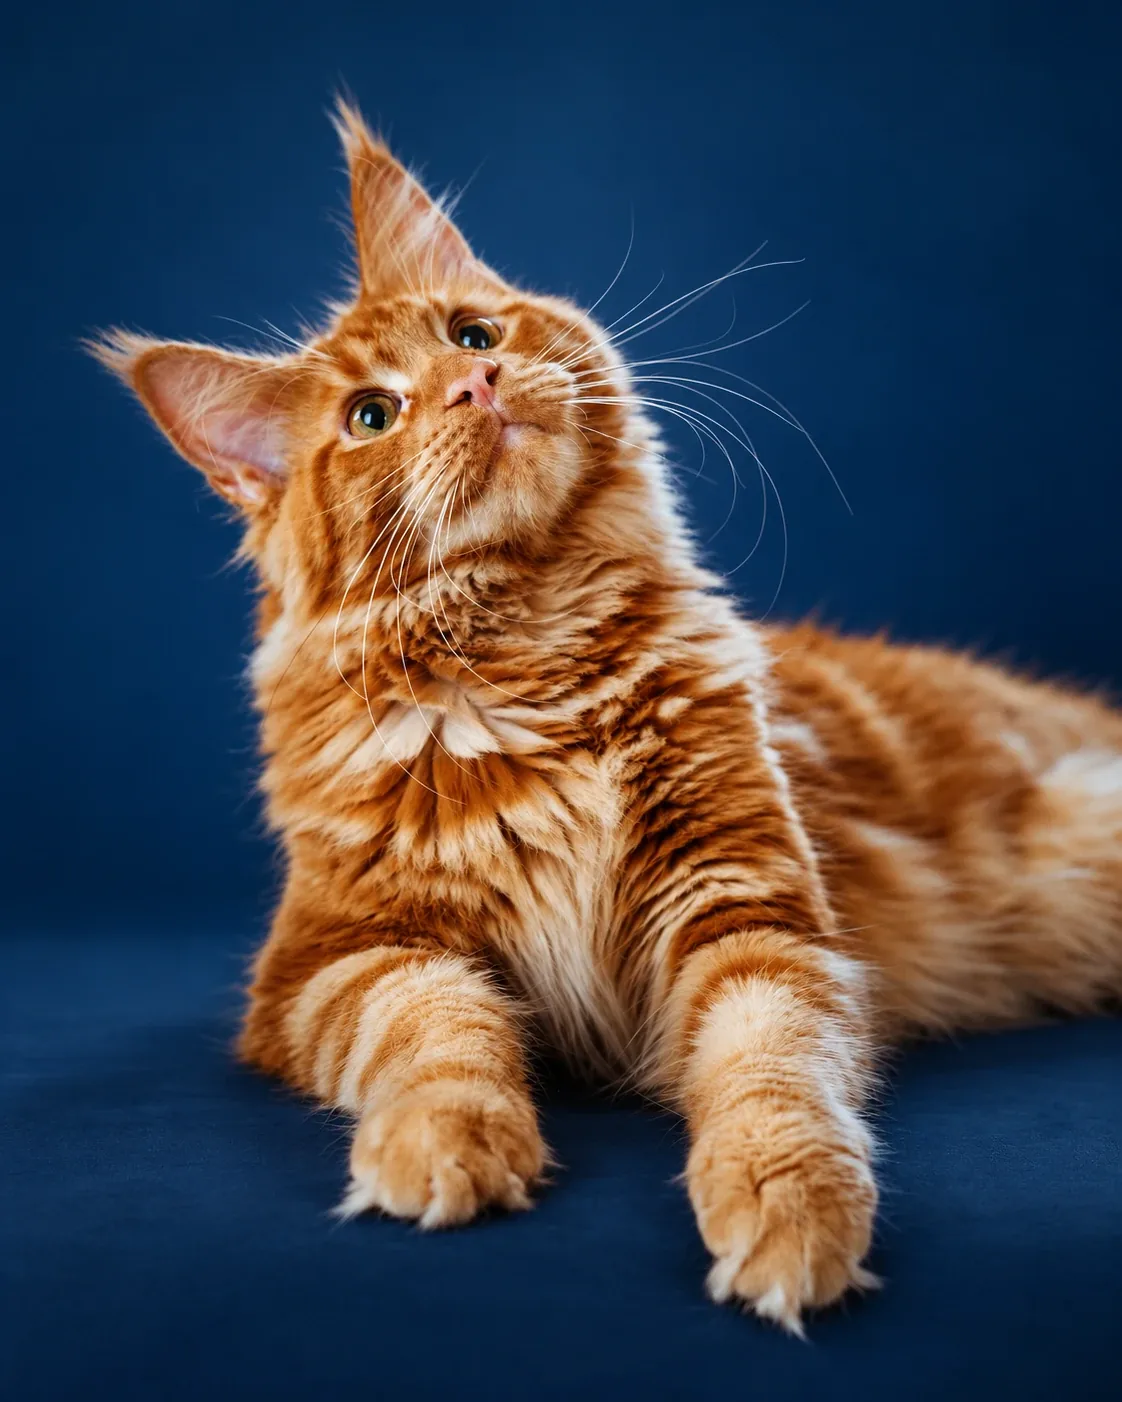
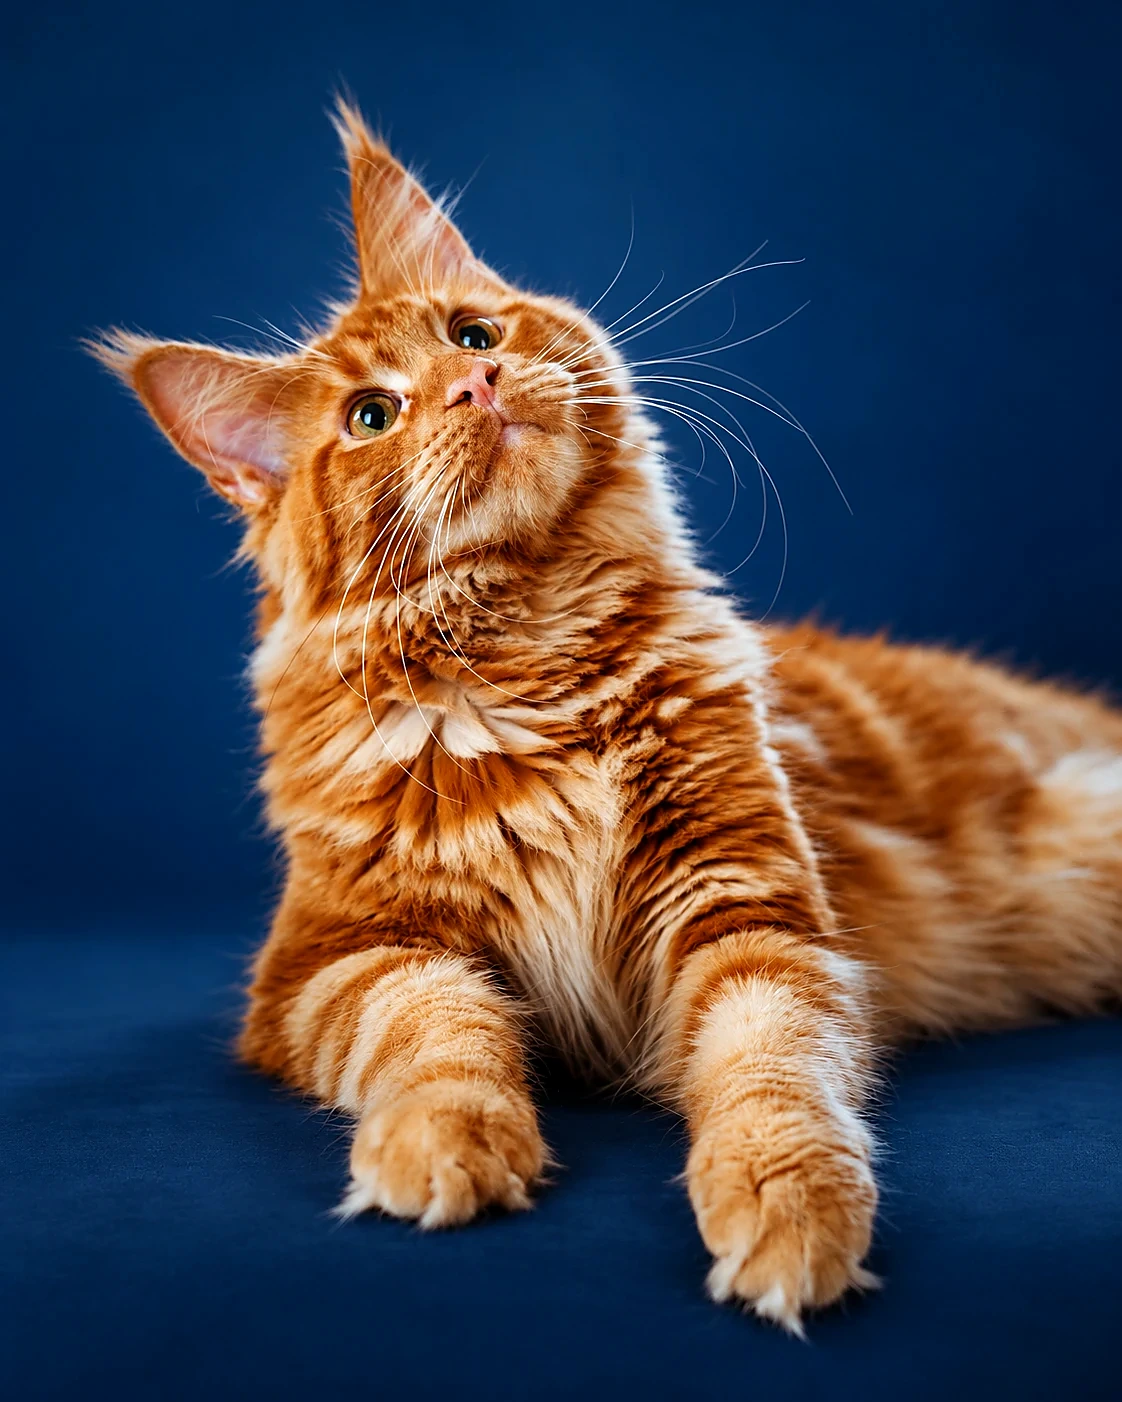
Первый экран: фото растворяется в градиентном фоне, улучшенное фото
- градиент фона в тон снимку, края фото плавно уходят в фон
- на компьютере фото на 15% крупнее
- чёткость, контраст и цвет фото, качество 90

diff --git a/src/styles/sections.css b/src/styles/sections.css
@@ -308,3 +308,25 @@ main:focus { outline: none; }
   .chips::-webkit-scrollbar { display: none; }
   .chip { flex-shrink: 0; }
 }
+
+/* ——— Вариант первого экрана: фото растворяется в фоне ——— */
+.hero--blend { background: radial-gradient(ellipse 45% 70% at 74% 52%, #05305a 0%, #022c52 55%, transparent 100%), linear-gradient(100deg, #002f55 0%, #002b50 100%); }
+.hero--blend .hero__media { position: relative; }
+.hero--blend .hero__media img {
+  border-radius: 0;
+  -webkit-mask-image: radial-gradient(ellipse 50% 52% at 47% 50%, #000 52%, transparent 97%);
+  mask-image: radial-gradient(ellipse 50% 52% at 47% 50%, #000 52%, transparent 97%);
+}
+.hero--blend .hero__media figcaption {
+  justify-content: center; margin-top: -8px; padding: 0; background: none; color: var(--lime); border-radius: 0; font-size: 0.875rem;
+}
+@media (min-width: 768px) {
+  .hero--blend .hero__media { margin-block: -24px; }
+}
+@media (min-width: 1024px) {
+  .hero--blend .hero__media { margin-right: calc(var(--gutter) * -1); }
+}
+@media (min-width: 1024px) {
+  /* Фото на 15% крупнее: колонка 0.85fr → 1.08fr при той же ширине контейнера */
+  .hero--blend .hero__grid { grid-template-columns: minmax(0, 1.35fr) minmax(0, 1.08fr); }
+}

diff --git a/src/app/page.tsx b/src/app/page.tsx
@@ -46,7 +46,7 @@ export default function HomePage() {
   return (
     <>
       {/* Первый экран */}
-      <section className="hero" aria-labelledby="hero-title">
+      <section className="hero hero--blend" aria-labelledby="hero-title">
         <div className="container hero__grid">
           <div className="hero__text">
             <p className="eyebrow">{site.tagline}</p>
@@ -74,7 +74,7 @@ export default function HomePage() {
             </p>
           </div>
           <figure className="hero__media">
-            <Image src={photos.heroCat.src} alt={photos.heroCat.alt} width={photos.heroCat.width} height={photos.heroCat.height} priority sizes="(min-width: 1024px) 460px, 100vw" />
+            <Image src={photos.heroCat.src} alt={photos.heroCat.alt} width={photos.heroCat.width} height={photos.heroCat.height} quality={90} priority sizes="(min-width: 1024px) 460px, 100vw" />
             <figcaption>
               <Icon name="clock" size={18} /> {site.hours.label}, без выходных
             </figcaption>

diff --git a/next.config.ts b/next.config.ts
@@ -21,7 +21,7 @@ const nextConfig: NextConfig = {
         images: { unoptimized: true },
       }
     : {
-        images: { formats: ['image/avif', 'image/webp'] },
+        images: { formats: ['image/avif', 'image/webp'], qualities: [75, 90] },
         async redirects() {
           return legacyRedirects
         },
